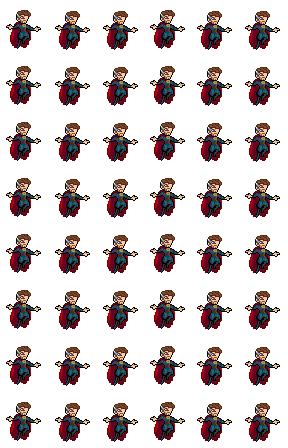
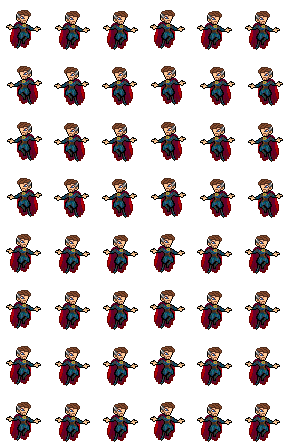
Strange: se espeja al ir hacia la izquierda y los portales aparecen menos seguido
Claude-Session: https://claude.ai/code/session_01NKXfdGR8G1iTrYkbieCHGV

diff --git a/src/systems/TimeStopUltimate.ts b/src/systems/TimeStopUltimate.ts
@@ -1,7 +1,11 @@
 import Phaser from 'phaser';
 import { TEXTURES } from '../config/assetKeys';
+import { Direction } from '../core/direction';
 import type { Character } from '../entities/Character';
 import type { Enemy } from '../entities/Enemy';
+
+/** Direcciones en las que el sprite de Strange va espejado. */
+const LEFT_FACING = new Set([Direction.DownLeft, Direction.Left, Direction.UpLeft]);
 
 export const TIME_STOP = {
   durationMs: 4000,
@@ -63,6 +67,7 @@ export class TimeStopUltimate {
     for (const enemy of enemies) if (enemy.active && !enemy.dying) enemy.freeze();
     this.arms
       ?.setPosition(this.player.x, this.player.y + Math.sin(now / 160) * 1.5)
+      .setFlipX(LEFT_FACING.has(this.player.direction))
       .setDepth(this.player.y - 0.2);
     return false;
   }

diff --git a/src/systems/HeroWeapons.ts b/src/systems/HeroWeapons.ts
@@ -224,8 +224,8 @@ export class Portals extends LeveledWeapon {
     const { scene, owner, stats } = this.deps;
 
     if (now >= this.nextOpen) {
-      this.nextOpen = now + (4600 - this.level * 330) * stats.cooldownMult;
-      const amount = 1 + Math.floor(this.level / 2) + stats.amountBonus;
+      this.nextOpen = now + (8200 - this.level * 500) * stats.cooldownMult;
+      const amount = 1 + Math.floor(this.level / 3) + stats.amountBonus;
       for (let i = 0; i < amount; i++) {
         const angle = Math.random() * Math.PI * 2;
         const dist = Phaser.Math.Between(40, 95) * stats.rangeMult;

diff --git a/CLAUDE.md b/CLAUDE.md
@@ -40,6 +40,6 @@ Juego web 2D estilo Vampire Survivors con héroes de Marvel. Lo desarrolla un eq
 - Oro y progreso permanente: `src/meta/` (guardado, mejoras permanentes) · balance del oro en `GOLD`, `BREAKABLE_PROPS` y `META` de `gameplayConfig.ts`
 - Interfaz: `src/ui/` (`UiButton`, `UpgradeCard`, `drawPanel` y escalas en `uiLayout.ts`)
 - Héroes: `src/characters/` (registro en `registry.ts`, rarezas en `rarity.ts`; para sumar uno: definición + sprites en `HEROES` del generador + entrada en el registro; su precio sale de su `rarity`) · Escenas: `src/scenes/` (Boot, Menu, Game, Hud)
-- Arte de héroes: Iron Man sale de `tools/ironman-reference.mjs`; Capitán y Thor están calcados de las imágenes de referencia de Santi (`tools/hero-trace-*.mjs`, 40 de alto, un solo dibujo que se espeja según hacia dónde mira el original (`DRAWN_FACES_LEFT`: Hulk y Spider-Man miran a la izquierda; Capitán, Thor e Iron Man a la derecha; quieto todos miran a la derecha; Strange no se espeja: siempre de frente); cuadros de 48×48 (Strange: 48×56), suelo en (24, 41), `DRAWN_HEROES` en el generador); Spider-Man y Hulk también (mismo método). Todos los héroes usan cuadros de 48×48.
+- Arte de héroes: Iron Man sale de `tools/ironman-reference.mjs`; Capitán y Thor están calcados de las imágenes de referencia de Santi (`tools/hero-trace-*.mjs`, 40 de alto, un solo dibujo que se espeja según hacia dónde mira el original (`DRAWN_FACES_LEFT`: Hulk y Spider-Man miran a la izquierda; Capitán, Thor e Iron Man a la derecha; quieto todos miran a la derecha; Strange siempre de frente, espejado al ir hacia la izquierda (también los brazos de la ulti con `flipX`)); cuadros de 48×48 (Strange: 48×56), suelo en (24, 41), `DRAWN_HEROES` en el generador); Spider-Man y Hulk también (mismo método). Todos los héroes usan cuadros de 48×48.
 - Íconos de la tienda: `tools/meta-icons.mjs` (dibujados con código, 16×16), `tools/meta-icons-custom.mjs` (a mano, 16×16) y `tools/meta-icons-custom32.mjs` (a mano, 32×32); la hoja final usa cuadros de 32×32 (`SHEET_CELL`, `META_ITEM_SIZE`).
 - Detalles de sprites y cómo agregar animaciones o personajes: `README.md`
